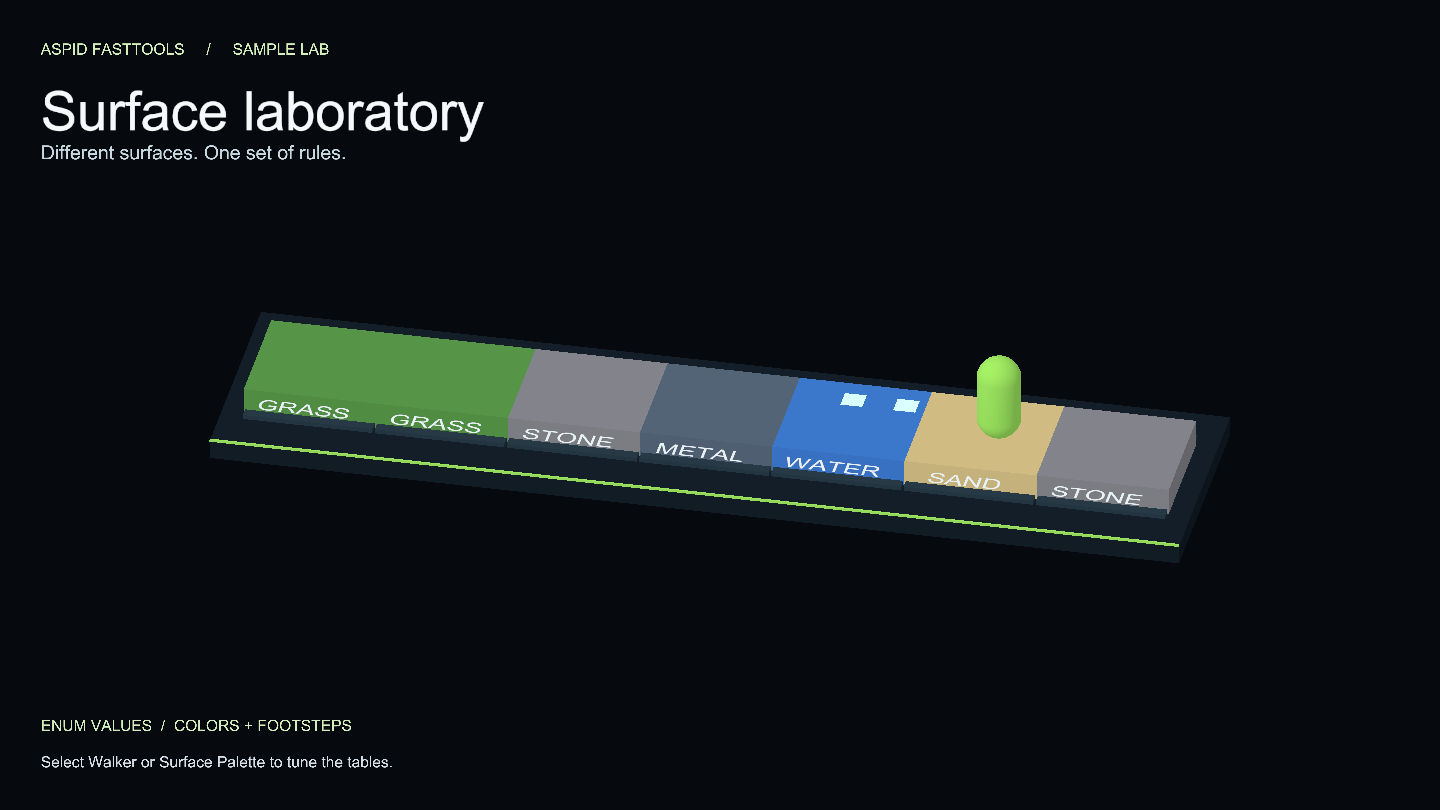
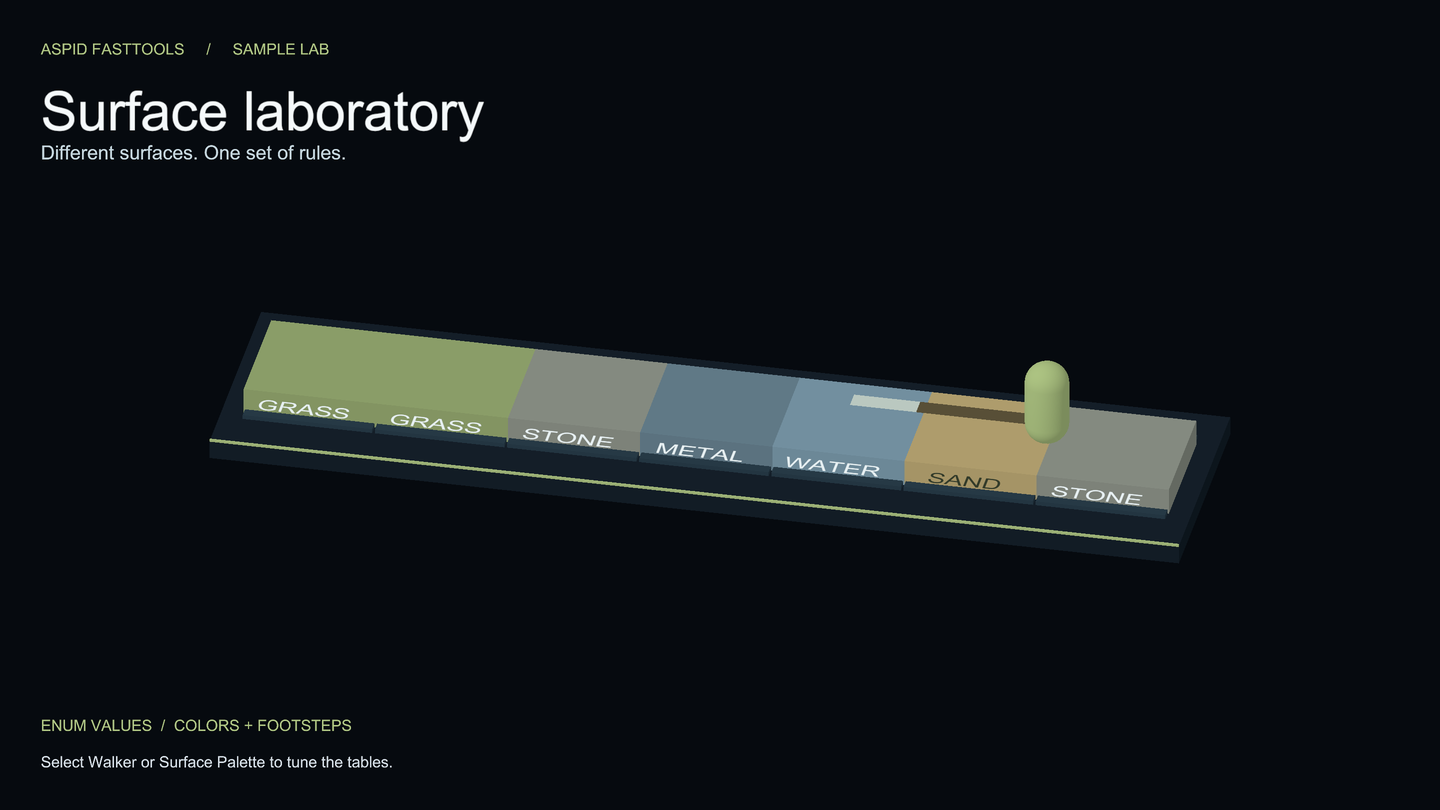
feat(samples): refine demo media and add continuous surface trails
- Remove duplicate article covers and decorative GIF text.
- Replace footprints with a wider trail that changes color at tile boundaries.
- Improve capture quality and harmonize light and dark accent palettes.

diff --git a/Website/src/pages/samples.js b/Website/src/pages/samples.js
@@ -23,7 +23,7 @@ const samples = [
     en: ['Spawn arena', 'Choose enemy behaviours and arrange the next wave.'],
     ru: ['Арена появления врагов', 'Выбирайте поведение врагов и схему появления следующей волны.'] },
   { id: 'enum-values', feature: 'EnumValues', image: surfaces, lightImage: surfacesLight,
-    en: ['Surface laboratory', 'Explore how surfaces change colors, footsteps and movement.'],
+    en: ['Surface laboratory', 'Explore how surfaces change colors, trails and movement.'],
     ru: ['Лаборатория поверхностей', 'Исследуйте, как поверхности меняют цвет, следы и скорость движения.'] },
   { id: 'profiler-markers', feature: 'ProfilerMarkers', image: flock, lightImage: flockLight,
     en: ['Flock observatory', 'Watch the simulation, then inspect its work in the Profiler.'],

diff --git a/Aspid.FastTools/Packages/tech.aspid.fasttools/Samples~/EnumValues/Scripts/Walker.cs b/Aspid.FastTools/Packages/tech.aspid.fasttools/Samples~/EnumValues/Scripts/Walker.cs
@@ -4,8 +4,8 @@ using Aspid.FastTools.Enums;
 // ReSharper disable once CheckNamespace
 namespace Aspid.FastTools.Samples.EnumValues
 {
-    // Paces back and forth over the tiles. Step cadence comes from the surface, speed from the terrain flags,
-    // footprint color from the palette; every value is an EnumValues lookup with a default fallback.
+    // Paces over the tiles, drawing a continuous trail. Color sampling comes from the surface, speed from
+    // terrain flags and trail color from the palette; every lookup has a default fallback.
     public sealed class Walker : MonoBehaviour
     {
         [SerializeField] private SurfacePalette _palette;
@@ -13,20 +13,25 @@ namespace Aspid.FastTools.Samples.EnumValues
         [SerializeField] [Min(1f)] private float _range = 10f;
 
         // Enum fixed in code. No row for a surface means the Default Value.
-        [SerializeField] private EnumValues<SurfaceType, float> _stepInterval;
+        [SerializeField] [InspectorName("Color Sample Interval")]
+        private EnumValues<SurfaceType, float> _stepInterval;
 
         // Enum picked in the Inspector (TerrainFlags here). [Flags] lookup: an exact key wins first, then the
         // first entry whose flags are all contained in the value, then the default.
         [SerializeField] private EnumValues<float> _speedByTerrain;
 
-        [SerializeField] [Min(0.1f)] private float _footprintLifetime = 2f;
-
-        private static readonly int _baseColorId = Shader.PropertyToID("_BaseColor");
-        private static readonly int _colorId = Shader.PropertyToID("_Color");
+        [SerializeField] [Min(0.1f)] [InspectorName("Trail Lifetime")]
+        private float _footprintLifetime = 2f;
 
         private int _direction = 1;
         private float _nextStep;
         private SurfaceTile _tile;
+        private SurfaceTrail _trail;
+        private Material _trailMaterial;
+        private Color _trailColor;
+        private Vector3 _lastTrailPosition;
+
+        private void Awake() => _trailMaterial = GetComponent<Renderer>().sharedMaterial;
 
         private void Update()
         {
@@ -35,11 +40,39 @@ namespace Aspid.FastTools.Samples.EnumValues
             if (Mathf.Abs(position.x) > _range) _direction = -_direction;
             transform.position = position;
 
+            var previousTile = _tile;
             _tile = FindTileBelow();
-            if (_tile is null || Time.time < _nextStep) return;
+            if (_tile is null)
+            {
+                FinishTrail();
+                return;
+            }
 
-            _nextStep = Time.time + _stepInterval.GetValue(_tile.Surface);
-            LeaveFootprint(_tile.Surface);
+            var trailPosition = transform.position + Vector3.down * 0.49f;
+            if (_trail == null || previousTile != _tile || Time.time >= _nextStep)
+            {
+                _nextStep = Time.time + Mathf.Max(0.02f, _stepInterval.GetValue(_tile.Surface));
+                var color = _palette.GetFootprintColor(_tile.Surface);
+                if (_trail == null || color != _trailColor)
+                {
+                    var join = trailPosition;
+                    if (_trail != null && previousTile != null && previousTile != _tile)
+                    {
+                        // These tiles are axis-aligned: split at the collider edge, not the previous frame.
+                        var bounds = previousTile.GetComponent<Collider>().bounds;
+                        var edge = trailPosition.x > _lastTrailPosition.x ? bounds.max.x : bounds.min.x;
+                        var fraction = Mathf.InverseLerp(_lastTrailPosition.x, trailPosition.x, edge);
+                        join = Vector3.Lerp(_lastTrailPosition, trailPosition, fraction);
+                        join.x = edge;
+                    }
+                    if (_trail != null) _trail.AddPoint(join, true);
+                    BeginTrail(join, color);
+                }
+            }
+
+            // Geometry follows every frame; table sampling never creates gaps between points.
+            _trail.AddPoint(trailPosition);
+            _lastTrailPosition = trailPosition;
         }
 
         private SurfaceTile FindTileBelow() =>
@@ -47,29 +80,31 @@ namespace Aspid.FastTools.Samples.EnumValues
                 ? hit.collider.GetComponent<SurfaceTile>()
                 : null;
 
-        private void LeaveFootprint(SurfaceType surface)
+        private void BeginTrail(Vector3 position, Color color)
         {
-            var print = GameObject.CreatePrimitive(PrimitiveType.Quad);
-            Destroy(print.GetComponent<Collider>());
-            print.name = $"Footprint ({surface})";
-            print.transform.SetPositionAndRotation(transform.position + Vector3.down * 0.49f, Quaternion.Euler(90f, 0f, 0f));
-            print.transform.localScale = Vector3.one * 0.5f;
-
-            var block = new MaterialPropertyBlock();
-            var color = _palette.GetFootprintColor(surface);
-            block.SetColor(_baseColorId, color);
-            block.SetColor(_colorId, color);
-            print.GetComponent<Renderer>().SetPropertyBlock(block);
-
-            Destroy(print, _footprintLifetime);
+            FinishTrail();
+            var trailObject = new GameObject("Surface trail");
+            _trail = trailObject.AddComponent<SurfaceTrail>();
+            _trail.Initialize(_trailMaterial, color, _footprintLifetime);
+            _trailColor = color;
+            _trail.AddPoint(position, true);
         }
+
+        private void FinishTrail()
+        {
+            if (_trail == null) return;
+            Destroy(_trail.gameObject, _footprintLifetime);
+            _trail = null;
+        }
+
+        private void OnDisable() => FinishTrail();
 
         [ContextMenu("Log Tables")]
         private void LogTables()
         {
             // foreach yields the configured rows only, in list order; the default value is not part of it.
             foreach (var (surface, interval) in _stepInterval)
-                Debug.Log($"Step interval {surface}: {interval:0.00}s", this);
+                Debug.Log($"Color sample interval {surface}: {interval:0.00}s", this);
 
             foreach (var (flags, multiplier) in _speedByTerrain)
                 Debug.Log($"Speed x{multiplier:0.00} on [{flags}]", this);

diff --git a/Aspid.FastTools/Packages/tech.aspid.fasttools/Samples~/EnumValues/Scripts/SurfaceTrail.cs b/Aspid.FastTools/Packages/tech.aspid.fasttools/Samples~/EnumValues/Scripts/SurfaceTrail.cs
@@ -1,0 +1,89 @@
+using System.Collections.Generic;
+using UnityEngine;
+
+namespace Aspid.FastTools.Samples.EnumValues
+{
+    // A flat ribbon on the floor. Each color section keeps its own history, so palette changes do not
+    // recolor old points. Time-based trimming moves the tail smoothly instead of removing whole marks.
+    public sealed class SurfaceTrail : MonoBehaviour
+    {
+        private readonly List<Vector3> _points = new();
+        private readonly List<float> _times = new();
+        private readonly List<Vector3> _vertices = new();
+        private readonly List<Vector3> _normals = new();
+        private readonly List<int> _triangles = new();
+        private Mesh _mesh;
+        private float _lifetime;
+
+        public void Initialize(Material material, Color color, float lifetime)
+        {
+            _lifetime = lifetime;
+            _mesh = new Mesh { name = "Surface trail ribbon" };
+            _mesh.MarkDynamic();
+            gameObject.AddComponent<MeshFilter>().sharedMesh = _mesh;
+            var renderer = gameObject.AddComponent<MeshRenderer>();
+            renderer.sharedMaterial = material;
+            renderer.shadowCastingMode = UnityEngine.Rendering.ShadowCastingMode.Off;
+            renderer.receiveShadows = false;
+            var block = new MaterialPropertyBlock();
+            block.SetColor("_Color", color);
+            block.SetColor("_BaseColor", color);
+            renderer.SetPropertyBlock(block);
+        }
+
+        public void AddPoint(Vector3 position, bool force = false)
+        {
+            if (!force && _points.Count > 0 && Vector3.Distance(_points[_points.Count - 1], position) < 0.02f) return;
+            _points.Add(position);
+            _times.Add(Time.time);
+        }
+
+        private void LateUpdate()
+        {
+            var cutoff = Time.time - _lifetime;
+            while (_times.Count > 1 && _times[1] <= cutoff)
+            {
+                _times.RemoveAt(0);
+                _points.RemoveAt(0);
+            }
+
+            _mesh.Clear();
+            if (_points.Count < 2) return;
+            _vertices.Clear();
+            _normals.Clear();
+            _triangles.Clear();
+            var halfWidth = Vector3.forward * 0.225f;
+            for (var i = 0; i < _points.Count; i++)
+            {
+                var point = _points[i];
+                if (i == 0 && _times[0] < cutoff)
+                    point = Vector3.Lerp(point, _points[1], Mathf.InverseLerp(_times[0], _times[1], cutoff));
+                _vertices.Add(point + halfWidth);
+                _vertices.Add(point - halfWidth);
+                _normals.Add(Vector3.up);
+                _normals.Add(Vector3.up);
+                if (i == 0) continue;
+                var a = (i - 1) * 2;
+                if (_points[i].x >= _points[i - 1].x)
+                {
+                    _triangles.Add(a); _triangles.Add(a + 2); _triangles.Add(a + 1);
+                    _triangles.Add(a + 1); _triangles.Add(a + 2); _triangles.Add(a + 3);
+                }
+                else
+                {
+                    _triangles.Add(a); _triangles.Add(a + 1); _triangles.Add(a + 2);
+                    _triangles.Add(a + 1); _triangles.Add(a + 3); _triangles.Add(a + 2);
+                }
+            }
+            _mesh.SetVertices(_vertices);
+            _mesh.SetNormals(_normals);
+            _mesh.SetTriangles(_triangles, 0);
+            _mesh.RecalculateBounds();
+        }
+
+        private void OnDestroy()
+        {
+            if (_mesh != null) Destroy(_mesh);
+        }
+    }
+}

diff --git a/Aspid.FastTools/Packages/tech.aspid.fasttools/Samples~/EnumValues/Documentation/README.md b/Aspid.FastTools/Packages/tech.aspid.fasttools/Samples~/EnumValues/Documentation/README.md
@@ -1,8 +1,6 @@
 # EnumValues Sample
 
-![The surface laboratory: a labeled track and a moving walker.](Images/scene.png)
-
-A character pacing over a row of floor tiles. The tile color, the footprint color, the step cadence and the walking speed are all `EnumValues` lookups keyed by a surface enum or a `[Flags]` terrain enum, configured in the Inspector with a default fallback. The API reference lives in [EnumValues](../../../Documentation/06-enum-values.md).
+A character pacing over a row of floor tiles. The tile color, the trail color, the color sampling interval and the walking speed are all `EnumValues` lookups keyed by a surface enum or a `[Flags]` terrain enum, configured in the Inspector with a default fallback. The API reference lives in [EnumValues](../../../Documentation/06-enum-values.md).
 
 ```csharp
 [SerializeField] private EnumValues<SurfaceType, float> _stepInterval; // enum fixed in code
@@ -16,16 +14,16 @@ Surface colors and footprint colors, each with a Default Value.
 ## Open it
 
 1. Import the sample and open `Scenes/EnumValues.unity`.
-2. Enter Play Mode: the **Walker** crosses seven tiles, leaving colored footprints that disappear after two seconds, faster on hot metal and slower on wet grass.
+2. Enter Play Mode: the **Walker** crosses seven tiles, leaving a continuous colored trail whose older end recedes after two seconds. Movement is faster on hot metal and slower on wet grass.
 
-![The walker crosses different surfaces and leaves colored footprints.](Images/demo.gif)
+![The walker crosses different surfaces and leaves a continuous colored trail.](Images/demo.gif)
 
-The walker crosses different surfaces and leaves colored footprints.
+The walker crosses different surfaces and leaves a continuous colored trail.
 
 ## Try
 
 1. **Typed variant.** Select `Data/SurfacePalette.asset`. Both tables are `EnumValues<SurfaceType, Color>`: the enum row is read-only because the type is fixed by the field. Change the `Grass` color; the tiles recolor immediately, without Play Mode.
-2. **Default value.** `Footprint Colors` has rows only for `Grass`, `Sand` and `Water`. Stone and metal footprints use `Default Value`. Right-click the field and choose **Populate Missing Enum Members** to add the rest, seeded with that default.
+2. **Default value.** `Footprint Colors` has rows only for `Grass`, `Sand` and `Water`. Trail segments on stone and metal use `Default Value`. Right-click the field and choose **Populate Missing Enum Members** to add the rest, seeded with that default.
 3. **Untyped variant.** Select **Walker**. `Speed By Terrain` is an `EnumValues<float>` whose enum, `TerrainFlags`, was picked in the header row. Each key is a flags dropdown, and `Wet, Slippery` is a row of its own.
 4. **`[Flags]` lookup rules**, visible as the walker crosses the tiles:
    - an **exact** key wins first: the `Water (Wet, Slippery)` tile resolves to the `Wet, Slippery` row (`0.5`), even though `Wet` and `Slippery` rows exist;
@@ -40,5 +38,6 @@ The walker crosses different surfaces and leaves colored footprints.
 |---|---|
 | `Scripts/SurfacePalette.cs` | `EnumValues<TEnum, TValue>` on a ScriptableObject |
 | `Scripts/Walker.cs` | Both variants in a component, `GetValue` on a plain and a `[Flags]` key, `foreach` |
+| `Scripts/SurfaceTrail.cs` | Draws a continuous ribbon and trims points by age |
 | `Scripts/SurfaceTile.cs` | Checks the palette color on editor updates, applying edits and Undo without Play Mode |
 | `Scripts/TerrainFlags.cs` | The `[Flags]` enum with combinable members |

diff --git a/Aspid.FastTools/Packages/tech.aspid.fasttools/Samples~/EnumValues/Documentation/README.ru.md b/Aspid.FastTools/Packages/tech.aspid.fasttools/Samples~/EnumValues/Documentation/README.ru.md
@@ -1,8 +1,6 @@
 # Пример EnumValues
 
-![Лаборатория поверхностей: подписанная дорожка и движущийся персонаж.](Images/scene.png)
-
-Персонаж ходит по ряду плиток. Цвет плитки, цвет следа, частота шагов и скорость — всё это `EnumValues`-поиски по enum поверхности или `[Flags]`-enum рельефа, настроенные в инспекторе со значением по умолчанию. Справочник — [EnumValues](../../../Documentation/ru/06-enum-values.md).
+Персонаж ходит по ряду плиток. Цвет плитки, цвет следа, интервал обновления цвета и скорость — всё это `EnumValues`-поиски по enum поверхности или `[Flags]`-enum рельефа, настроенные в инспекторе со значением по умолчанию. Справочник — [EnumValues](../../../Documentation/ru/06-enum-values.md).
 
 ```csharp
 [SerializeField] private EnumValues<SurfaceType, float> _stepInterval; // enum задан в коде
@@ -16,11 +14,11 @@
 ## Как открыть
 
 1. Импортируйте пример и откройте `Scenes/EnumValues.unity`.
-2. Войдите в Play Mode: **Walker** проходит семь плиток, оставляя цветные следы, которые исчезают через две секунды, быстрее на горячем металле и медленнее на мокрой траве.
+2. Войдите в Play Mode: **Walker** проходит семь плиток, оставляя непрерывную цветную линию. Её старый конец сокращается через две секунды. На горячем металле персонаж движется быстрее, на мокрой траве — медленнее.
 
-![Персонаж проходит по разным поверхностям и оставляет цветные следы.](Images/demo.gif)
+![Персонаж проходит по разным поверхностям и оставляет непрерывную цветную линию.](Images/demo.gif)
 
-Персонаж проходит по разным поверхностям и оставляет цветные следы.
+Персонаж проходит по разным поверхностям и оставляет непрерывную цветную линию.
 
 ## Попробуйте
 
@@ -40,5 +38,6 @@
 |---|---|
 | `Scripts/SurfacePalette.cs` | `EnumValues<TEnum, TValue>` на ScriptableObject |
 | `Scripts/Walker.cs` | Оба варианта в компоненте, `GetValue` по обычному и `[Flags]`-ключу, `foreach` |
+| `Scripts/SurfaceTrail.cs` | Рисует непрерывную линию и убирает старые точки |
 | `Scripts/SurfaceTile.cs` | Следит за цветом из палитры через editor update; применяет изменения и Undo без Play Mode |
 | `Scripts/TerrainFlags.cs` | `[Flags]`-enum с комбинируемыми членами |

diff --git a/Aspid.FastTools/Packages/tech.aspid.fasttools/Samples~/Types/Documentation/README.ru.md b/Aspid.FastTools/Packages/tech.aspid.fasttools/Samples~/Types/Documentation/README.ru.md
@@ -1,7 +1,5 @@
 # Пример Types
 
-![Арена: обычные и элитные враги движутся к центру.](Images/scene.png)
-
 Хранение типа позволяет выбирать в инспекторе, какие объекты создавать и какое поведение использовать, без изменения кода, который с ними работает. На нескольких примерах вы увидите, где это пригодится и как с этим работать: настроите типы обычных и элитных врагов, выберете способ расстановки волны и замените тип уже существующего компонента с сохранением общих данных.
 
 Справочник по API — [Serializable Type System](../../../Documentation/ru/02-serializable-types.md).

diff --git a/Aspid.FastTools/Packages/tech.aspid.fasttools/Samples~/SerializeReferences/Documentation/README.ru.md b/Aspid.FastTools/Packages/tech.aspid.fasttools/Samples~/SerializeReferences/Documentation/README.ru.md
@@ -1,7 +1,5 @@
 # Пример SerializeReferences
 
-![Оружейная лаборатория: турель, мишень и видимые эффекты.](Images/scene.png)
-
 Турель, стреляющая полиморфным оружием по тренировочному манекену. Каждое оружие, эффект и модификатор — поле `[SerializeReference]` с выпадающим списком `[TypeSelector]`, а в комплекте идут намеренно сломанные ассеты, на которых можно пройти инструменты ремонта. Справочник — [SerializeReference Selector](../../../Documentation/ru/03-serialize-reference-selector.md) и [SerializeReference Tooling](../../../Documentation/ru/04-serialize-reference-tooling.md).
 
 ```csharp

diff --git a/Aspid.FastTools/Packages/tech.aspid.fasttools/Samples~/ProfilerMarkers/Documentation/README.ru.md b/Aspid.FastTools/Packages/tech.aspid.fasttools/Samples~/ProfilerMarkers/Documentation/README.ru.md
@@ -1,7 +1,5 @@
 # Пример ProfilerMarkers
 
-![Обсерватория стаи: цветная симуляция над координатной сеткой.](Images/scene.png)
-
 Стая кубов, которой управляет обычный C#-класс, и `this.Marker()` вокруг каждой фазы. Генератор превращает каждый вызов в статический `ProfilerMarker`, поэтому Profiler показывает именованное дерево кадра без единого поля маркера, написанного руками. Справочник — [ProfilerMarkers](../../../Documentation/ru/05-profiler-markers.md).
 
 ```csharp

diff --git a/Aspid.FastTools/Packages/tech.aspid.fasttools/Samples~/SerializeReferences/Documentation/README.md b/Aspid.FastTools/Packages/tech.aspid.fasttools/Samples~/SerializeReferences/Documentation/README.md
@@ -1,7 +1,5 @@
 # SerializeReferences Sample
 
-![The weapon lab: a turret, a target and visible effects.](Images/scene.png)
-
 A turret that fires polymorphic weapons at a training dummy. Every weapon, effect and modifier is a `[SerializeReference]` field with a `[TypeSelector]` dropdown, and the sample ships assets that are broken on purpose so you can walk through the repair tools. The feature reference lives in [SerializeReference Selector](../../../Documentation/03-serialize-reference-selector.md) and [SerializeReference Tooling](../../../Documentation/04-serialize-reference-tooling.md).
 
 ```csharp

diff --git a/Aspid.FastTools/Packages/tech.aspid.fasttools/Samples~/Types/Documentation/README.md b/Aspid.FastTools/Packages/tech.aspid.fasttools/Samples~/Types/Documentation/README.md
@@ -1,7 +1,5 @@
 # Types Sample
 
-![The spawn arena: regular and elite enemies converge on the center.](Images/scene.png)
-
 Storing a type lets you choose which objects to create and which behavior to use in the Inspector, without changing the code that works with them. These examples show where this is useful and how to use it: configure regular and elite enemy types, choose a wave layout, and replace the type of an existing component while preserving shared data.
 
 For the API reference, see [Serializable Type System](../../../Documentation/02-serializable-types.md).

diff --git a/Aspid.FastTools/Packages/tech.aspid.fasttools/Samples~/ProfilerMarkers/Documentation/README.md b/Aspid.FastTools/Packages/tech.aspid.fasttools/Samples~/ProfilerMarkers/Documentation/README.md
@@ -1,7 +1,5 @@
 # ProfilerMarkers Sample
 
-![The flock observatory: a color-coded simulation above a reference grid.](Images/scene.png)
-
 A flock of cubes steered by a plain C# simulation, with `this.Marker()` around each phase. The source generator turns every call site into a static `ProfilerMarker`, so the Profiler shows a named tree of the frame with no marker fields written by hand. The API reference lives in [ProfilerMarkers](../../../Documentation/05-profiler-markers.md).
 
 ```csharp

diff --git a/Aspid.FastTools/Packages/tech.aspid.fasttools/Samples~/EditorTools/Documentation/README.ru.md b/Aspid.FastTools/Packages/tech.aspid.fasttools/Samples~/EditorTools/Documentation/README.ru.md
@@ -9,8 +9,6 @@ rootVisualElement
     .AddChild(details.SetFlexGrow(1));
 ```
 
-![Выберите способность, чтобы изменить её свойства и увидеть описание эффекта.](Images/ability-catalog.png)
-
 Выберите способность, чтобы изменить её свойства и увидеть описание эффекта.
 
 ## Как открыть
